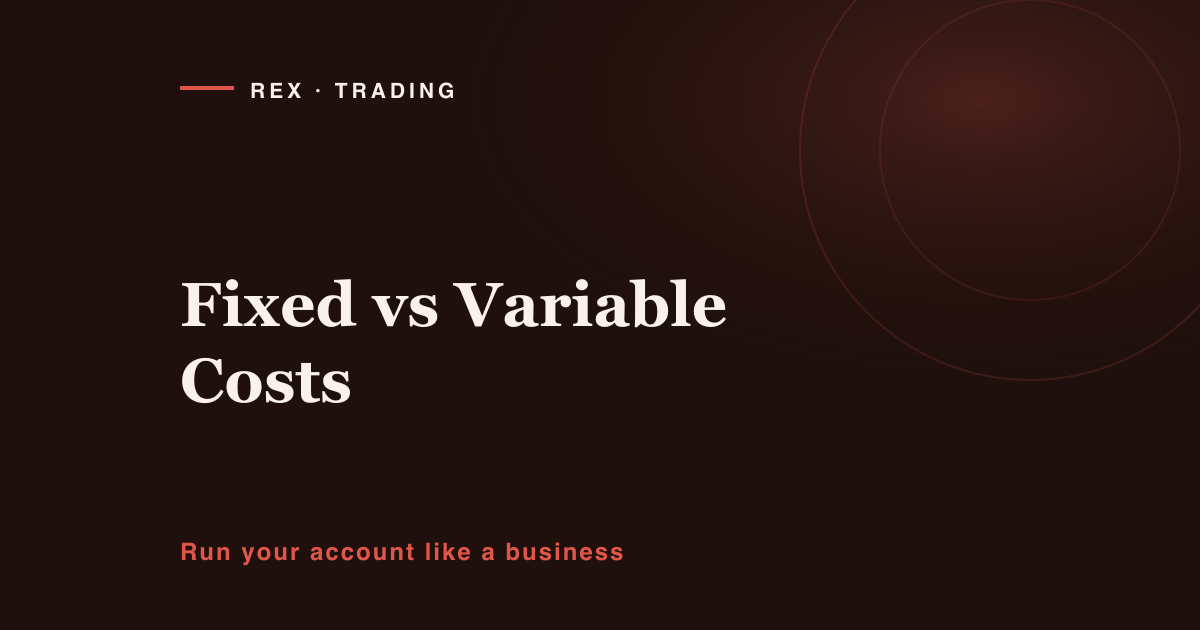
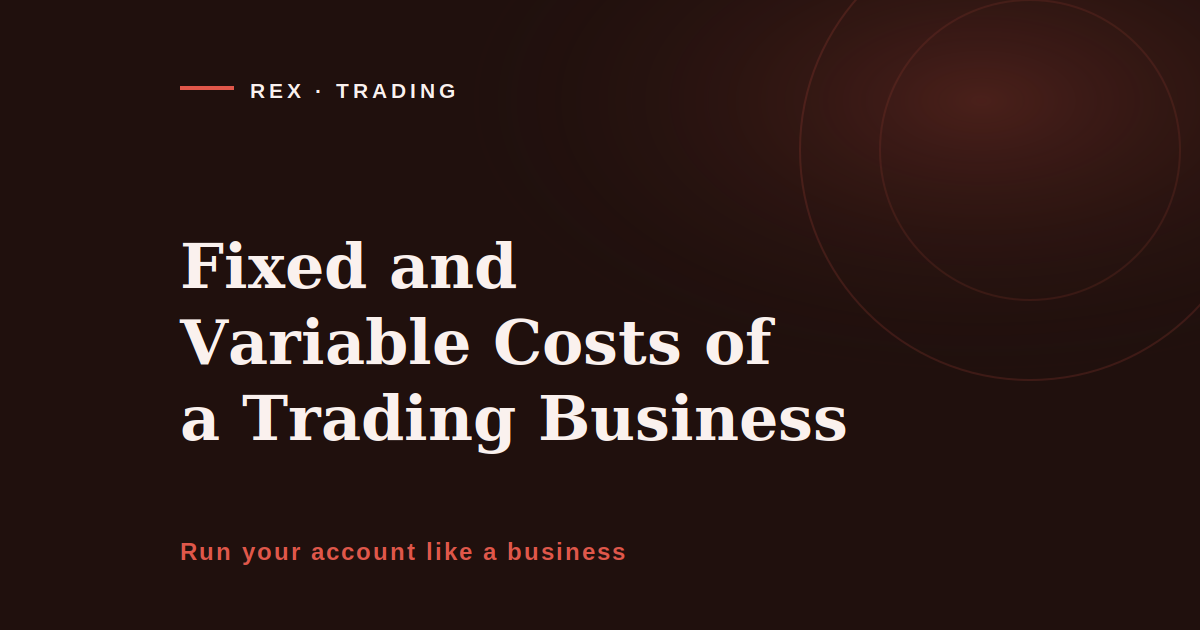
Bo sung anh bia cho 11 bai con trong (chi Trinh yeu cau)

diff --git a/how-to-take-profit-like-a-business.html b/how-to-take-profit-like-a-business.html
@@ -10,7 +10,7 @@
 <meta name="description" content="Stop guessing the top on every trade. Learn how to take profit like a business by scaling out in portions, bank some, move your stop to breakeven, and let a runner ride. The exit plan that kills both fear of giving it back and fear of missing out.">
 <meta property="og:title" content="How to Take Profit Like a Business: Scaling Out Instead of Guessing the Top, REX Trading Signal">
 <meta property="og:description" content="Stop guessing the top on every trade. Learn how to take profit like a business by scaling out in portions, bank some, move your stop to breakeven, and let a runner ride. The exit plan that kills both fear of giving it back and fear of missing out.">
-<meta property="og:image" content="https://rextradingsignal.com/avatar.jpg">
+<meta property="og:image" content="https://rextradingsignal.com/assets/hero/how-to-take-profit-like-a-business.png">
 <meta property="og:type" content="article">
 <meta property="og:url" content="https://rextradingsignal.com/how-to-take-profit-like-a-business.html">
 <link rel="canonical" href="https://rextradingsignal.com/how-to-take-profit-like-a-business.html">
@@ -205,6 +205,9 @@
 
 <article class="article">
  <div class="wrap"><div class="body">
+<figure style="margin:0 0 34px">
+<img src="/assets/hero/how-to-take-profit-like-a-business.png" alt="How to take profit like a business, REX Trading Signal article cover image">
+</figure>
 <p>Here's a scene every trader knows. You're finally in a good trade. It's green. Then the question hits, the one that turns a winning position into a wreck: <em>do I take it now, or let it run?</em></p>
 <p>Take it, and gold keeps climbing without you, you left money on the table and you feel like a coward. Hold it, and price snaps back, wiping out the profit and sometimes more, now you feel like a fool. Either way you lose sleep, and half the time you lose the gain too. I did this for years, and it wasn't a strategy problem. It was a business problem. I was trying to guess the top on every single trade, like a gambler calling one perfect number, when a business never operates that way.</p>
 <p>A business doesn't bet the whole quarter on nailing one moment. It banks revenue as it comes in, protects what it's already earned, and keeps a stake in the upside. That's exactly how you should take profit. Not by guessing the top, by scaling out. Let me show you what that means, and why it quietly solves the hardest emotional problem in trading.</p>

diff --git a/trading-journal-template.html b/trading-journal-template.html
@@ -10,7 +10,7 @@
 <meta name="description" content="A trading journal template built like a set of business books: the exact fields to log, what to write in each, and how to audit them to stop repeating losing trades.">
 <meta property="og:title" content="The Trade Journal Template That Actually Changes How You Trade, REX Trading Signal">
 <meta property="og:description" content="A trading journal template built like a set of business books: the exact fields to log, what to write in each, and how to audit them to stop repeating losing trades.">
-<meta property="og:image" content="https://rextradingsignal.com/avatar.jpg">
+<meta property="og:image" content="https://rextradingsignal.com/assets/hero/trading-journal-template.png">
 <meta property="og:type" content="article">
 <meta property="og:url" content="https://rextradingsignal.com/trading-journal-template.html">
 <link rel="canonical" href="https://rextradingsignal.com/trading-journal-template.html">
@@ -214,6 +214,9 @@
 
 <article class="article">
  <div class="wrap"><div class="body">
+<figure style="margin:0 0 34px">
+<img src="/assets/hero/trading-journal-template.png" alt="Trading journal template, REX Trading Signal article cover image">
+</figure>
 <p>Picture a shop where nobody writes anything down. No record of what sold, what sat on the shelf, what the day cost to run. The owner just remembers. You already know how that store ends. For five years I ran a real company, and I'd never have allowed it. Then I started trading and did exactly that, I kept the whole operation in my head. This is the article I wish someone had handed me before my first blown account: not motivation, not a strategy, a <strong>trading journal template</strong>. The actual page. The one that turns a string of losses you can't explain into a set of patterns you can fix. It won't flatter you. That's the entire point. Here's what goes on it, what to write in each field, and how to read it back like an auditor who works for you.</p>
 <figure style="margin:34px 0;padding:22px 20px 16px;background:#fbf7f1;border:1px solid #f0d6cd;border-radius:10px;">
 <svg viewBox="0 0 760 400" width="100%" height="auto" role="img" aria-label="A trading journal template shown as a loop: write the reason before the click, answer did I follow my rules after the close, audit the ledger at the weekend, then tighten one rule for next week.">

diff --git a/treat-trading-like-a-business.html b/treat-trading-like-a-business.html
@@ -10,7 +10,7 @@
 <meta name="description" content="Hobby traders wing it; operators keep books. How to treat trading like a business, a written plan, a risk ceiling, a journal, and a two-minute nightly audit.">
 <meta property="og:title" content="How to Treat Trading Like a Business, REX Trading Signal">
 <meta property="og:description" content="Hobby traders wing it; operators keep books. How to treat trading like a business, a written plan, a risk ceiling, a journal, and a two-minute nightly audit.">
-<meta property="og:image" content="https://rextradingsignal.com/avatar.jpg">
+<meta property="og:image" content="https://rextradingsignal.com/assets/hero/treat-trading-like-a-business.png">
 <meta property="og:type" content="article">
 <meta property="og:url" content="https://rextradingsignal.com/treat-trading-like-a-business.html">
 <link rel="canonical" href="https://rextradingsignal.com/treat-trading-like-a-business.html">
@@ -205,6 +205,9 @@
 
 <article class="article">
  <div class="wrap"><div class="body">
+<figure style="margin:0 0 34px">
+<img src="/assets/hero/treat-trading-like-a-business.png" alt="Treat trading like a business, REX Trading Signal article cover image">
+</figure>
 <p>I sat in my car with the engine off, thumb hovering over a number with far fewer digits than it had that morning. Fourth account. Zero. Outside, the lot was empty and dead quiet, the kind of quiet where you finally hear yourself think, and I did not like what I was hearing.</p>
 <p>One question kept circling, and I could not answer it: how do you treat trading like a business when you have been treating it like a slot machine? Because that is what it was. I built and ran a real company for five years before I ever placed a trade. Payroll. Suppliers. Customers. Audits. I made decisions on records and numbers, never on moods. Then I opened a trading account and left every one of those habits at the door.</p>
 <p>Hear this before anything else, because it cost me four accounts to see it: the problem was not my strategy. It almost never is. I did not need a better indicator or some secret setup. I ran my business on systems. I ran my trading on emotion. That was the whole problem.</p>

diff --git a/why-do-most-traders-blow-their-accounts.html b/why-do-most-traders-blow-their-accounts.html
@@ -10,7 +10,7 @@
 <meta name="description" content="Why do most traders blow their accounts? Not the strategy, not bad luck. A five-year business owner names the four failure patterns, and the real root cause.">
 <meta property="og:title" content="Why Do Most Traders Blow Their Accounts?, REX Trading Signal">
 <meta property="og:description" content="Why do most traders blow their accounts? Not the strategy, not bad luck. A five-year business owner names the four failure patterns, and the real root cause.">
-<meta property="og:image" content="https://rextradingsignal.com/avatar.jpg">
+<meta property="og:image" content="https://rextradingsignal.com/assets/hero/why-do-most-traders-blow-their-accounts.png">
 <meta property="og:type" content="article">
 <meta property="og:url" content="https://rextradingsignal.com/why-do-most-traders-blow-their-accounts.html">
 <link rel="canonical" href="https://rextradingsignal.com/why-do-most-traders-blow-their-accounts.html">
@@ -205,6 +205,9 @@
 
 <article class="article">
  <div class="wrap"><div class="body">
+<figure style="margin:0 0 34px">
+<img src="/assets/hero/why-do-most-traders-blow-their-accounts.png" alt="Why do most traders blow their accounts, REX Trading Signal article cover image">
+</figure>
 <p>Every trader I've met who blew an account went hunting for the same three things: a better strategy, a sharper indicator, a hotter signal group. I hunted for all three. I bought courses. I switched setups every few weeks. None of it saved the accounts I lost.</p>
 <p>Here's the honest answer to why most traders blow their accounts, and it stung to write it. Not the strategy. Not the chart. Not bad luck. They blow up because they break rules they already knew. The market almost never surprised me. I surprised myself, over and over, and blamed the screen.</p>
 <p>For years I was sure the fix was out there. One more setup. One more edge I hadn't found. It wasn't. The edge I was missing was never on the chart, it was in how I ran the desk.</p>

diff --git a/one-page-trading-business-plan-template.html b/one-page-trading-business-plan-template.html
@@ -10,7 +10,7 @@
 <meta name="description" content="A trading business plan template that fits on one page. Walk the six fields, mission, risk ceiling, trade ticket, journal, nightly audit, and fill your own tonight. Free.">
 <meta property="og:title" content="One-Page Trading Business Plan Template, REX Trading Signal">
 <meta property="og:description" content="A trading business plan template that fits on one page. Walk the six fields, mission, risk ceiling, trade ticket, journal, nightly audit, and fill your own tonight. Free.">
-<meta property="og:image" content="https://rextradingsignal.com/avatar.jpg">
+<meta property="og:image" content="https://rextradingsignal.com/assets/hero/one-page-trading-business-plan-template.png">
 <meta property="og:type" content="article">
 <meta property="og:url" content="https://rextradingsignal.com/one-page-trading-business-plan-template.html">
 <link rel="canonical" href="https://rextradingsignal.com/one-page-trading-business-plan-template.html">
@@ -204,6 +204,9 @@
 
 <article class="article">
  <div class="wrap"><div class="body">
+<figure style="margin:0 0 34px">
+<img src="/assets/hero/one-page-trading-business-plan-template.png" alt="One page trading business plan template, REX Trading Signal article cover image">
+</figure>
 <figure style="margin:34px 0;padding:22px 20px 16px;background:#fbf7f1;border:1px solid #f0d6cd;border-radius:10px;">
 <svg xmlns="http://www.w3.org/2000/svg" viewBox="0 0 760 420" width="100%" height="auto" role="img" aria-label="A single sheet showing the six boxes of a one-page trading business plan: mission line, risk ceiling, trade ticket, journal line, nightly audit and the rule of two no's, with the daily routine of before entry, after exit, before you close.">
  <rect x="0" y="0" width="760" height="420" rx="10" fill="#fbf7f1" stroke="#f0d6cd" stroke-width="1"/>

diff --git a/how-to-set-realistic-monthly-targets.html b/how-to-set-realistic-monthly-targets.html
@@ -10,7 +10,7 @@
 <meta name="description" content="Setting a monthly profit target is what blows up trading accounts. Learn to run yours like a business, process targets, a risk budget, and staying solvent.">
 <meta property="og:title" content="How to Set Realistic Monthly Targets for Your Trading Business">
 <meta property="og:description" content="Setting a monthly profit target is what blows up trading accounts. Learn to run yours like a business, process targets, a risk budget, and staying solvent.">
-<meta property="og:image" content="https://rextradingsignal.com/avatar.jpg">
+<meta property="og:image" content="https://rextradingsignal.com/assets/hero/how-to-set-realistic-monthly-targets.png">
 <meta property="og:type" content="article">
 <meta property="og:url" content="https://rextradingsignal.com/how-to-set-realistic-monthly-targets.html">
 <link rel="canonical" href="https://rextradingsignal.com/how-to-set-realistic-monthly-targets.html">
@@ -205,6 +205,9 @@
 
 <article class="article">
  <div class="wrap"><div class="body">
+<figure style="margin:0 0 34px">
+<img src="/assets/hero/how-to-set-realistic-monthly-targets.png" alt="How to set realistic monthly targets, REX Trading Signal article cover image">
+</figure>
 <p>There's a sticky note I've seen on a hundred trading desks. It reads something like this: <em>$2,000 this month.</em> Maybe it's $500. Maybe it's $5,000. The number changes. The damage doesn't.</p>
 
 <p>I get why people write it. It feels like ambition. It feels like a plan. When I ran a real company for five years, I lived by targets, so I understand the instinct to put a number on the wall and chase it. But a trading account is not the same animal, and that little number on the sticky note is one of the quietest, most reliable ways I know to run an account into the ground.</p>

diff --git a/what-a-business-owner-does-when-the-market-goes-quiet.html b/what-a-business-owner-does-when-the-market-goes-quiet.html
@@ -10,7 +10,7 @@
 <meta name="description" content="A slow market tempts you to force a trade out of boredom. Here's why doing nothing is a real decision, and how a business owner protects capital in a dead season.">
 <meta property="og:title" content="What a Business Owner Does When the Market Goes Quiet, REX Trading Signal">
 <meta property="og:description" content="A slow market tempts you to force a trade out of boredom. Here's why doing nothing is a real decision, and how a business owner protects capital in a dead season.">
-<meta property="og:image" content="https://rextradingsignal.com/avatar.jpg">
+<meta property="og:image" content="https://rextradingsignal.com/assets/hero/what-a-business-owner-does-when-the-market-goes-quiet.png">
 <meta property="og:type" content="article">
 <meta property="og:url" content="https://rextradingsignal.com/what-a-business-owner-does-when-the-market-goes-quiet.html">
 <link rel="canonical" href="https://rextradingsignal.com/what-a-business-owner-does-when-the-market-goes-quiet.html">
@@ -205,6 +205,9 @@
 
 <article class="article">
  <div class="wrap"><div class="body">
+<figure style="margin:0 0 34px">
+<img src="/assets/hero/what-a-business-owner-does-when-the-market-goes-quiet.png" alt="What a business owner does when the market goes quiet, REX Trading Signal article cover image">
+</figure>
 
 <figure style="margin:32px 0;background:#fbf7f1;border:1px solid #e7dcc9;border-radius:14px;padding:26px 22px 18px;">
 <svg viewBox="0 0 760 430" width="100%" role="img" aria-label="Diagram: when the market goes quiet, the gambler forces a trade while the business owner protects capital and waits" xmlns="http://www.w3.org/2000/svg" style="max-width:100%;height:auto;font-family:-apple-system,BlinkMacSystemFont,'Segoe UI',Roboto,Helvetica,Arial,sans-serif;">

diff --git a/position-sizing-for-gold-trading.html b/position-sizing-for-gold-trading.html
@@ -10,7 +10,7 @@
 <meta name="description" content="Position sizing for gold trading, minus the maths headache. One division turns your risk cap into a lot size, and why a wider stop means a smaller trade.">
 <meta property="og:title" content="Position Sizing for Gold Trading, Explained Without the Maths Headache, REX Trading Signal">
 <meta property="og:description" content="Position sizing for gold trading, minus the maths headache. One division turns your risk cap into a lot size, and why a wider stop means a smaller trade.">
-<meta property="og:image" content="https://rextradingsignal.com/avatar.jpg">
+<meta property="og:image" content="https://rextradingsignal.com/assets/hero/position-sizing-for-gold-trading.png">
 <meta property="og:type" content="article">
 <meta property="og:url" content="https://rextradingsignal.com/position-sizing-for-gold-trading.html">
 <link rel="canonical" href="https://rextradingsignal.com/position-sizing-for-gold-trading.html">
@@ -205,6 +205,9 @@
 
 <article class="article">
  <div class="wrap"><div class="body">
+<figure style="margin:0 0 34px">
+<img src="/assets/hero/position-sizing-for-gold-trading.png" alt="Position sizing for gold trading, REX Trading Signal article cover image">
+</figure>
 <figure style="margin:34px 0;padding:22px 20px 16px;background:#fbf7f1;border:1px solid #f0d6cd;border-radius:10px;">
 <svg viewBox="0 0 760 400" width="100%" height="auto" xmlns="http://www.w3.org/2000/svg" role="img" aria-label="Diagram: the order of decisions in position sizing, read the fixed risk cap, mark the stop where the chart says the setup is broken, then solve for the size, with the backwards order shown underneath.">
  <rect x="0.5" y="0.5" width="759" height="399" rx="10" fill="#fbf7f1" stroke="#f0d6cd" stroke-width="1"/>

diff --git a/how-to-manage-risk-in-gold-trading.html b/how-to-manage-risk-in-gold-trading.html
@@ -10,7 +10,7 @@
 <meta name="description" content="One bad week shouldn't be able to end your account. How to manage risk in gold trading with a monthly loss cap that cascades down to every single trade.">
 <meta property="og:title" content="How to Manage Risk in Gold Trading: The Risk Ceiling, REX Trading Signal">
 <meta property="og:description" content="One bad week shouldn't be able to end your account. How to manage risk in gold trading with a monthly loss cap that cascades down to every single trade.">
-<meta property="og:image" content="https://rextradingsignal.com/avatar.jpg">
+<meta property="og:image" content="https://rextradingsignal.com/assets/hero/how-to-manage-risk-in-gold-trading.png">
 <meta property="og:type" content="article">
 <meta property="og:url" content="https://rextradingsignal.com/how-to-manage-risk-in-gold-trading.html">
 <link rel="canonical" href="https://rextradingsignal.com/how-to-manage-risk-in-gold-trading.html">
@@ -205,6 +205,9 @@
 
 <article class="article">
  <div class="wrap"><div class="body">
+<figure style="margin:0 0 34px">
+<img src="/assets/hero/how-to-manage-risk-in-gold-trading.png" alt="How to manage risk in gold trading, REX Trading Signal article cover image">
+</figure>
 <figure style="margin:34px 0;padding:22px 20px 16px;background:#fbf7f1;border:1px solid #f0d6cd;border-radius:10px;">
 <svg viewBox="0 0 760 400" width="100%" height="auto" xmlns="http://www.w3.org/2000/svg" role="img" aria-label="Diagram: one monthly risk ceiling set in advance, then divided into a weekly cap, a daily cap and a per-trade cap, with the rule that touching the ceiling closes the month.">
  <rect x="0.5" y="0.5" width="759" height="399" rx="10" fill="#fbf7f1" stroke="#f0d6cd" stroke-width="1"/>

diff --git a/when-to-scale-up-your-trading-business.html b/when-to-scale-up-your-trading-business.html
@@ -205,6 +205,9 @@
 
 <article class="article">
  <div class="wrap"><div class="body">
+<figure style="margin:0 0 34px">
+<img src="/assets/hero/when-to-scale-up-your-trading-business.png" alt="When to scale up your trading business, REX Trading Signal article cover image">
+</figure>
 
 <p>There is a specific feeling every trader knows, and it is the most dangerous feeling in the business. You have had a good run. A few trades went your way, the account is up, and something shifts. The current size starts to feel small, almost timid. You think: I've got this figured out, why am I still trading these little positions? It is time to go bigger.</p>
 

diff --git a/fixed-and-variable-costs-of-a-trading-business.html b/fixed-and-variable-costs-of-a-trading-business.html
@@ -205,6 +205,9 @@
 
 <article class="article">
  <div class="wrap"><div class="body">
+<figure style="margin:0 0 34px">
+<img src="/assets/hero/fixed-and-variable-costs-of-a-trading-business.png" alt="Fixed and variable costs of a trading business, REX Trading Signal article cover image">
+</figure>
 
 <p>When I ran my old business, I could tell you two numbers off the top of my head: what it cost to keep the doors open for a month, and what each order cost me to fulfil. I did not always like those numbers, but I always knew them. They were the difference between a busy month and a profitable one, and those are not the same month.</p>
 
